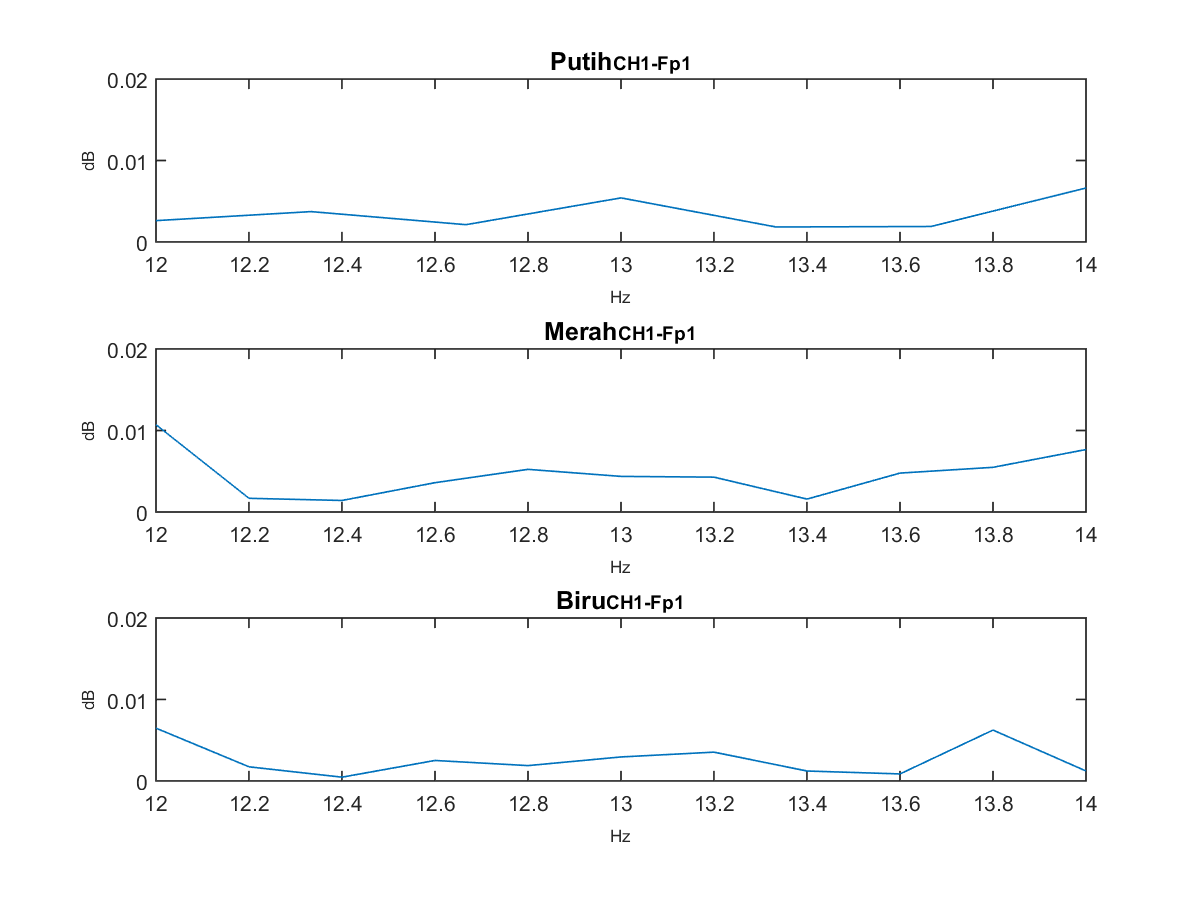
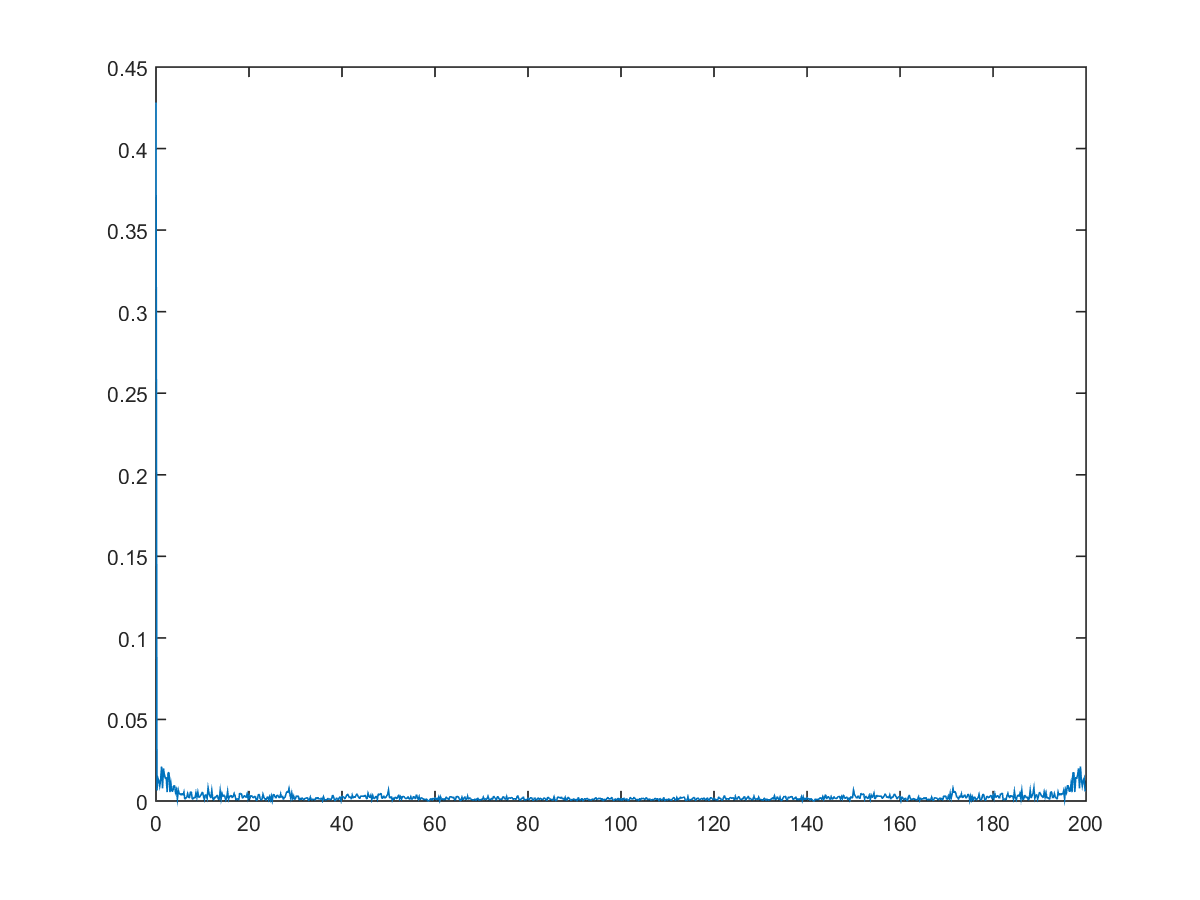
Tambahan plot frequency-domain peak analysis

diff --git a/_DataSkripsi/code8.m b/_DataSkripsi/code8.m
@@ -5,8 +5,8 @@ close all;
 
 %%Variabel
 % N = Netral 	: Putih
-% L = Left		: Merah
-% R = Right 	: Biru
+% L = Left		: Merah (11 Hz)
+% R = Right 	: Biru (13 Hz)
 fs = 200;		% Sesuai ganglion pakai 200Hz
 t = [0:399]/fs;
 % Manajemen Folder
@@ -15,16 +15,16 @@ folder1 = 'D:\Jaler\OpenBCI_GUI\_DataSkripsi\data_jalerse\_Frekuensi\';
 folder2 = 'D:\Jaler\OpenBCI_GUI\_DataSkripsi\data_jalerse\_FFT\';
 files = dir([folder '*.txt']);
 Kode = 'jalerse_1';
-warna_putih = [0.9290 0.6940 0.1250];
-warna_merah = [0.6350 0.0780 0.1840];
-warna_biru =  [0.3010 0.7450 0.9330];
+% warna_putih = [0.9290 0.6940 0.1250];
+% warna_merah = [0.6350 0.0780 0.1840];
+% warna_biru =  [0.3010 0.7450 0.9330];
 %% Filter
 % % BandPass Filter = BP1 - BP2;
 % BP1 = 9;
 % BP2 = 15;
 %limit untuk Frekuensi (Hz)
-BPlim1 = 12;
-BPlim2 = 14;
+BPlim1 = 9;
+BPlim2 = 15;
 %Limit untuk dB
 dBlim1 = 0;
 dBlim2 = 0.02;
@@ -58,6 +58,7 @@ tP = [0:((fs*durasi_P)-1)]/fs;
 tMB = [0:((fs*durasi_MB)-1)]/fs;
 CHlist = {'CH1-Fp1' 'CH2-Fp2' 'CH3-C3' 'CH4-C4'};
 KelasList = {'Putih' 'Merah' 'Biru'};
+warnaPlotList = {'k' 'r' 'b'};
 
 % Smoothing - Moving Average
 span = 0.9;
@@ -164,40 +165,61 @@ for i=1:4
 	dataNormMA{3,i} = smooth(tMB, dataNorm{3,i}, span, sMethod);
 end
 
-%% Plotting Per Kanal Frekuensi vs Waktu
-for i=1:4
-	figure(i);
-	% set('defaultAxesColorOrder',[warna_putih; warna_merah; warna_biru]);
-	% plot(tP,dataNorm{1,i},'k' , tMB,dataNorm{2,i},'r' , tMB,dataNorm{3,i},'b'); % Tanpa MA
-	subplot(2,1,1);
-	plot(tP,dataNorm{1,i},'k' , tMB,dataNorm{2,i},'r' , tMB,dataNorm{3,i},'b' , tP,dataNormMA{1,i},'k-', tMB,dataNormMA{2,i}, 'r-', tMB,dataNormMA{3,i},'b-'); % dengan MA
-	title(CHlist{i});
-	% plot(tP, dataNorm{1,i}, tMB, dataNorm{2,i}, tMB, dataNorm{3,i}, tP, dataNormMA{1,i}, 'c-', tMB, dataNormMA{2,i}, 'm-', tMB, dataNormMA{3,i}, 'y-');
-	subplot(2,1,2);
-	plot(tP, dataNormMA{1,i},'k' , tMB,dataNormMA{2,i},'r' , tMB,dataNormMA{3,i},'b'); % MA saja
-	xlabel('\fontsize{8}detik (s)');	
-	% xlim([slim1 slim2]);
-	% ylim([ylim1 ylim2]);
-	legend('Putih','Merah','Biru' , 'Location','southoutside' , 'Orientation','horizontal');
-	print([folder1 sprintf('%s_9-15_MA',CHlist{i})],'-dpng');
-end
+% %% Plotting Per Kanal (Time Domain)
+% for i=1:4
+% 	figure(i);
+% 	% set('defaultAxesColorOrder',[warna_putih; warna_merah; warna_biru]);
+% 	% plot(tP,dataNorm{1,i},'k' , tMB,dataNorm{2,i},'r' , tMB,dataNorm{3,i},'b'); % Tanpa MA
+% 	subplot(2,1,1);
+% 	plot(tP,dataNorm{1,i},'k' , tMB,dataNorm{2,i},'r' , tMB,dataNorm{3,i},'b' , tP,dataNormMA{1,i},'k-', tMB,dataNormMA{2,i}, 'r-', tMB,dataNormMA{3,i},'b-'); % dengan MA
+% 	title(CHlist{i});
+% 	% plot(tP, dataNorm{1,i}, tMB, dataNorm{2,i}, tMB, dataNorm{3,i}, tP, dataNormMA{1,i}, 'c-', tMB, dataNormMA{2,i}, 'm-', tMB, dataNormMA{3,i}, 'y-');
+% 	subplot(2,1,2);
+% 	plot(tP, dataNormMA{1,i},'k' , tMB,dataNormMA{2,i},'r' , tMB,dataNormMA{3,i},'b'); % MA saja
+% 	xlabel('\fontsize{8}detik (s)');	
+% 	% xlim([slim1 slim2]);
+% 	% ylim([ylim1 ylim2]);
+% 	legend('Putih','Merah','Biru' , 'Location','southoutside' , 'Orientation','horizontal');
+% 	print([folder1 sprintf('%s_9-15_MA',CHlist{i})],'-dpng');
+% end
 
-% %% FFT Per Kanal
+% %% FFT Per Kanal (Frequency Domain - Gabung satu kotak plot)
 % for i=1:4 % kanal
 % 	figure(i+4) % Biar bisa Barengan sama Plot
 % 	for j=1:3 % kelas
 % 		Ak = abs(fft(dataNorm{j,i}))/length(dataNorm{j,i});
 % 		k = 0:1:length(dataNorm{j,i})-1;
 % 		f = k*fs/length(dataNorm{j,i});
-% 		subplot(3,1,j); plot(f,Ak);
-% 		xlabel('\fontsize{8}Hz');
-% 		ylabel('\fontsize{8}dB');
-% 		title(['\fontsize{12}' KelasList{j} '\fontsize{9}' CHlist{i}]);
-% 		xlim([BPlim1 BPlim2]);
-% 		ylim([dBlim1 dBlim2]);
+% 		hold on; 
+% 		plot(f,Ak,warnaPlotList{j});
+% 		% set(gca, 'ytick', 0:1e5:18e-3);
 % 	end
+% 	hold off;	
+% 	xlabel('\fontsize{8}Hz');
+% 	ylabel('\fontsize{8}dB');
+% 	title(['\fontsize{9}' CHlist{i}]);
+% 	xlim([BPlim1 BPlim2]);
+% 	% ylim([dBlim1 dBlim2]);
+% 	legend('Merah','Biru' , 'Location','northeast' , 'Orientation','horizontal');
 % 	print([folder2 sprintf('FFT %s_%d-%d',CHlist{i},BPlim1,BPlim2)],'-dpng');
 % end
+
+%% FFT Per Kanal (Frequency Domain)
+for i=1:4 % kanal
+	figure(i+4) % Biar bisa Barengan sama Plot
+	for j=1:3 % kelas
+		Ak = abs(fft(dataNorm{j,i}))/length(dataNorm{j,i});
+		k = 0:1:length(dataNorm{j,i})-1;
+		f = k*fs/length(dataNorm{j,i});
+		subplot(3,1,j); plot(f,Ak);
+		xlabel('\fontsize{8}Hz');
+		ylabel('\fontsize{8}dB');
+		title(['\fontsize{12}' KelasList{j} '\fontsize{9}' CHlist{i}]);
+		xlim([BPlim1 BPlim2]);
+		% ylim([dBlim1 dBlim2]);
+	end
+	print([folder2 sprintf('FFT %s_%d-%d',CHlist{i},BPlim1,BPlim2)],'-dpng');
+end
 
 
 % %% FFT Per Kelas
